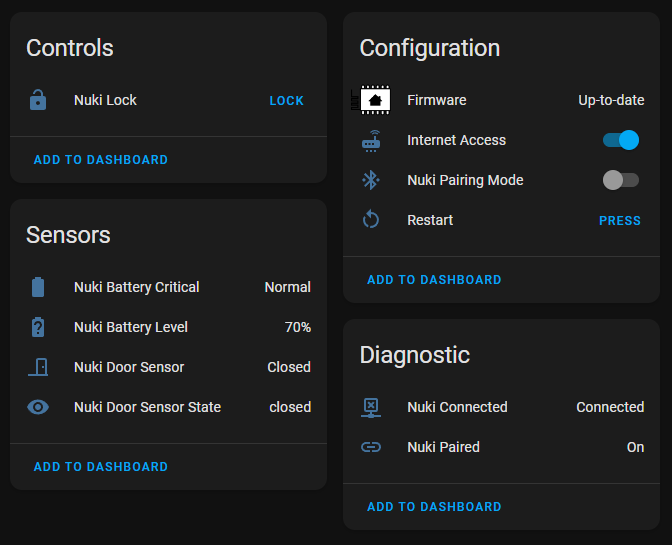
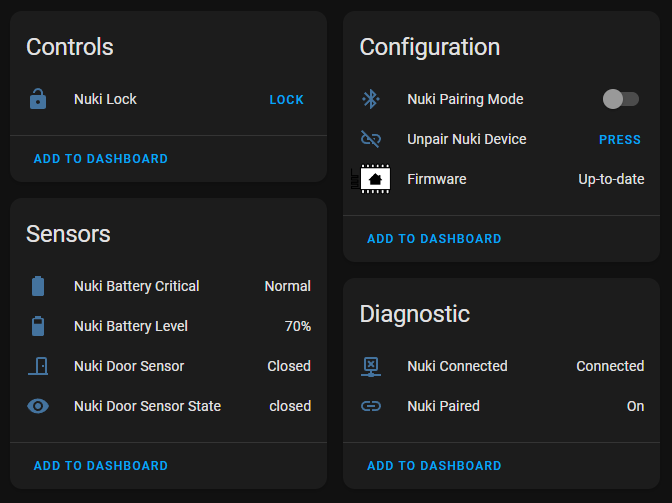
Fixes

diff --git a/components/nuki_lock/nuki_lock.cpp b/components/nuki_lock/nuki_lock.cpp
@@ -233,10 +233,11 @@ namespace esphome
             // Terminate stale Bluetooth connections
             this->nukiLock_.updateConnectionState();
 
-            if(this->pairing_mode_)
+            if(this->pairing_mode_ && this->pairing_mode_timer_ != 0)
             {
                 if(millis() > this->pairing_mode_timer_)
                 {
+                    ESP_LOGV(TAG, "Pairing timed out, turning off pairing mode");
                     this->set_pairing_mode(false);
                 }
             }
@@ -585,37 +586,29 @@ namespace esphome
         void NukiLockPairingModeSwitch::write_state(bool state)
         {
             this->parent_->set_pairing_mode(state);
-
-            if(state)
-            {
-                this->parent_->pairing_mode_on_callback_.call();
-            }
-            else
-            {
-                this->parent_->pairing_mode_off_callback_.call();
-            }
         }
 
         void NukiLockComponent::set_pairing_mode(bool enabled)
         {
-            uint16_t timer_minutes = 5;
-
             this->pairing_mode_ = enabled;
+            this->pairing_mode_switch_->publish_state(this->pairing_mode_);
 
             if(enabled)
             {
-                ESP_LOGI(TAG, "Pairing Mode active for %d minutes", timer_minutes);
+                ESP_LOGI(TAG, "Pairing Mode turned on for %d seconds", this->pairing_timeout_);
+                this->pairing_mode_on_callback_.call();
+
                 ESP_LOGI(TAG, "Waiting for Nuki to enter pairing mode...");
 
-                // Turn on for 5 Minutes
-                this->pairing_mode_timer_ = millis() + (timer_minutes * 60 * 1000);
+                // Turn on for ... seconds
+                this->pairing_mode_timer_ = millis() + (this->pairing_timeout_ * 1000);
             }
             else
             {
-                ESP_LOGI(TAG, "Pairing Mode inactive");
+                ESP_LOGI(TAG, "Pairing Mode turned off");
+                this->pairing_mode_timer_ = 0;
+                this->pairing_mode_off_callback_.call();
             }
-
-            this->pairing_mode_switch_->publish_state(this->pairing_mode_);
         }
 
         void NukiLockComponent::add_pairing_mode_on_callback(std::function<void()> &&callback)

diff --git a/components/nuki_lock/lock.py b/components/nuki_lock/lock.py
@@ -26,6 +26,7 @@ CONF_DOOR_SENSOR = "door_sensor"
 CONF_DOOR_SENSOR_STATE = "door_sensor_state"
 
 CONF_SET_PAIRING_MODE = "pairing_mode"
+CONF_PAIRING_TIMEOUT = "pairing_timeout"
 
 CONF_ON_PAIRING_MODE_ON = "on_pairing_mode_on_action"
 CONF_ON_PAIRING_MODE_OFF = "on_pairing_mode_off_action"
@@ -80,6 +81,7 @@ CONFIG_SCHEMA = lock.LOCK_SCHEMA.extend({
         entity_category=ENTITY_CATEGORY_CONFIG,
         icon="mdi:bluetooth-connect",
     ),
+    cv.Optional(CONF_PAIRING_TIMEOUT, default="300s"): cv.positive_time_period_seconds,
     cv.Optional(CONF_ON_PAIRING_MODE_ON): automation.validate_automation(
         {
             cv.GenerateID(CONF_TRIGGER_ID): cv.declare_id(PairingModeOnTrigger),
@@ -136,6 +138,8 @@ async def to_code(config):
         sw = await switch.new_switch(config[CONF_PAIRING_MODE_SWITCH])
         await cg.register_parented(sw, config[CONF_ID])
         cg.add(var.set_pairing_mode_switch(sw))
+
+    cg.add(var.set_pairing_timeout(config[CONF_PAIRING_TIMEOUT]))
 
     for conf in config.get(CONF_ON_PAIRING_MODE_ON, []):
         trigger = cg.new_Pvariable(conf[CONF_TRIGGER_ID], var)

diff --git a/components/nuki_lock/nuki_lock.h b/components/nuki_lock/nuki_lock.h
@@ -49,6 +49,8 @@ namespace esphome {
                 void set_door_sensor_state(text_sensor::TextSensor *door_sensor_state) { this->door_sensor_state_ = door_sensor_state; }
                 void set_unpair_button(button::Button *unpair_button) { this->unpair_button_ = unpair_button; }
                 void set_pairing_mode_switch(switch_::Switch *pairing_mode_switch) { this->pairing_mode_switch_ = pairing_mode_switch; }
+                
+                void set_pairing_timeout(uint16_t pairing_timeout) { this->pairing_timeout_ = pairing_timeout; }
 
                 void add_pairing_mode_on_callback(std::function<void()> &&callback);
                 void add_pairing_mode_off_callback(std::function<void()> &&callback);
@@ -101,6 +103,8 @@ namespace esphome {
                 bool config_update_;
                 bool open_latch_;
                 bool lock_n_go_;
+
+                uint16_t pairing_timeout_ = 0;
 
                 bool pairing_mode_ = false;
                 uint16_t pairing_mode_timer_ = 0;

diff --git a/README.md b/README.md
@@ -1,5 +1,6 @@
 # Nuki Lock for ESPHome (ESP32)
-[![Build Component](https://github.com/uriyacovy/ESPHome_nuki_lock/actions/workflows/build.yaml/badge.svg)](https://github.com/uriyacovy/ESPHome_nuki_lock/actions/workflows/build.yaml)
+![GitHub Actions Workflow Status](https://img.shields.io/github/actions/workflow/status/AzonInc/ESPHome_nuki_lock/build.yaml?branch=main&style=for-the-badge&logo=buddy&logoColor=ffffff&label=Build)
+<hr>
 
 This module builds an ESPHome lock platform for Nuki Smartlock (nuki_lock) that creates 9 new entities in Home Assistant:
 - Lock
